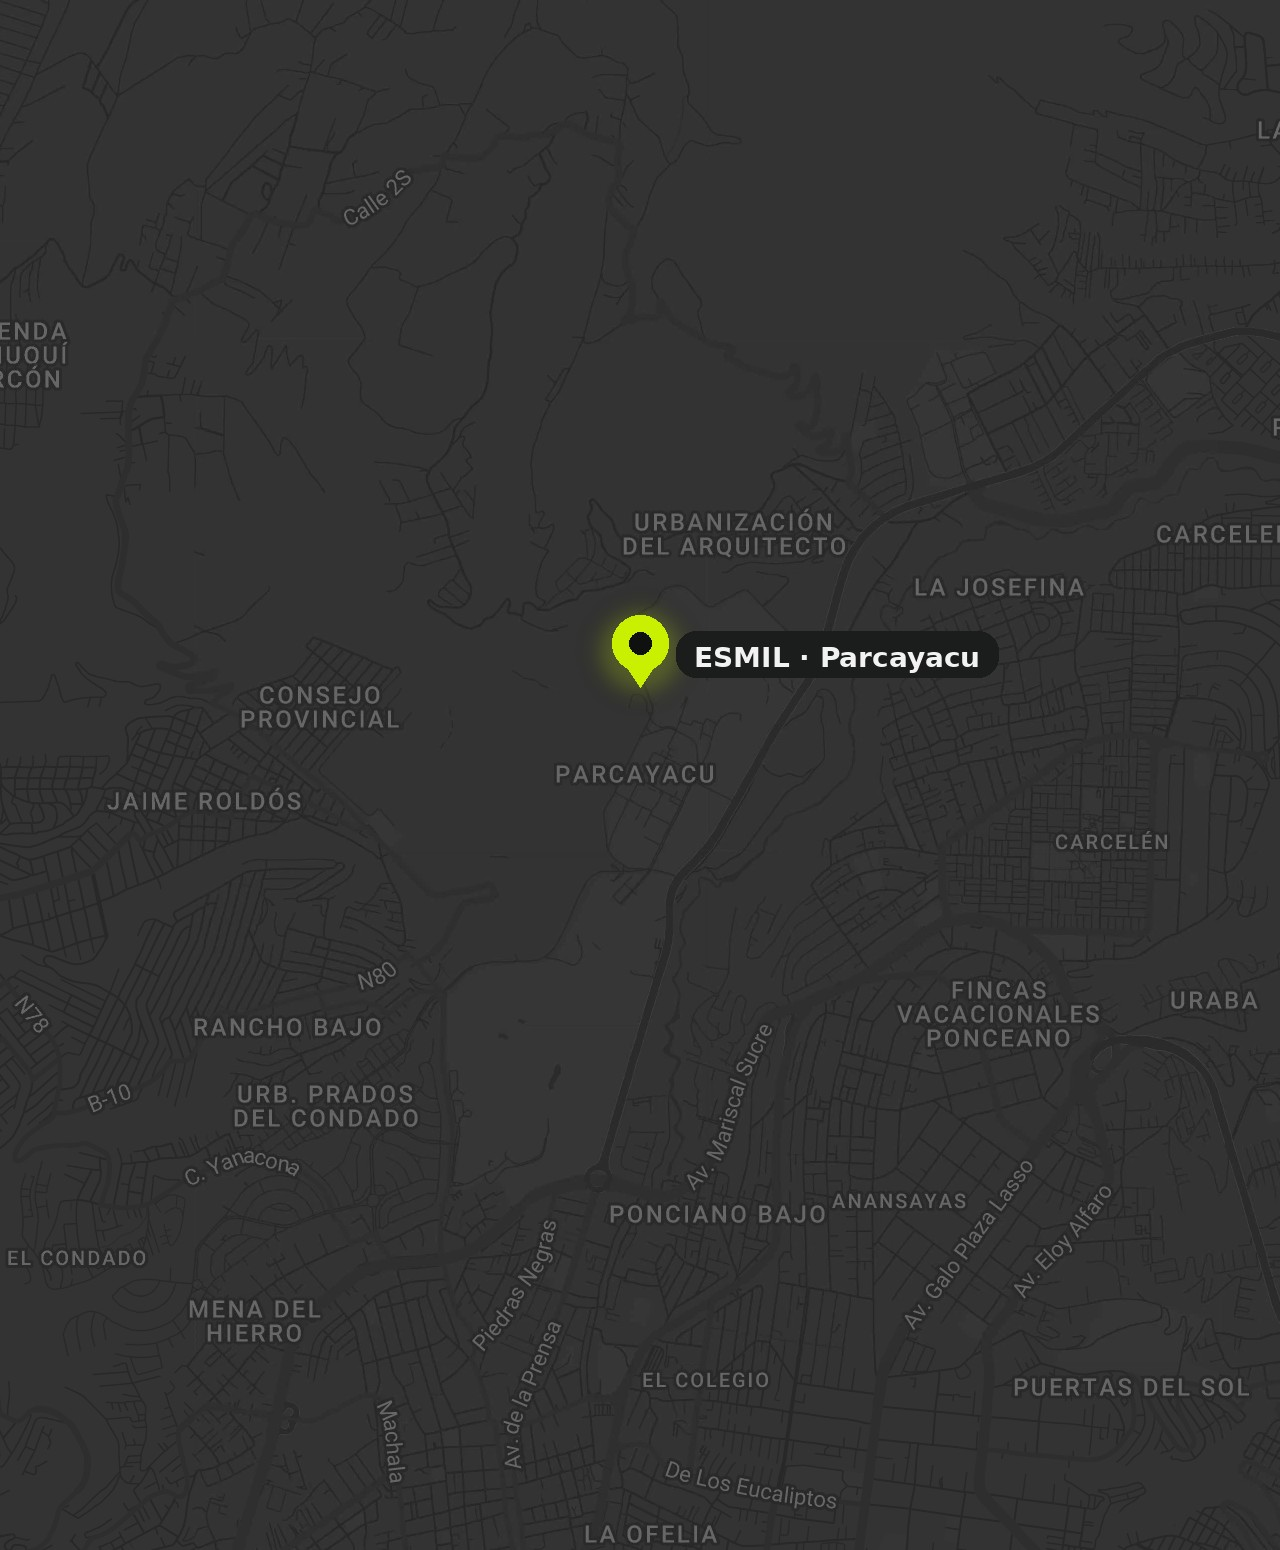
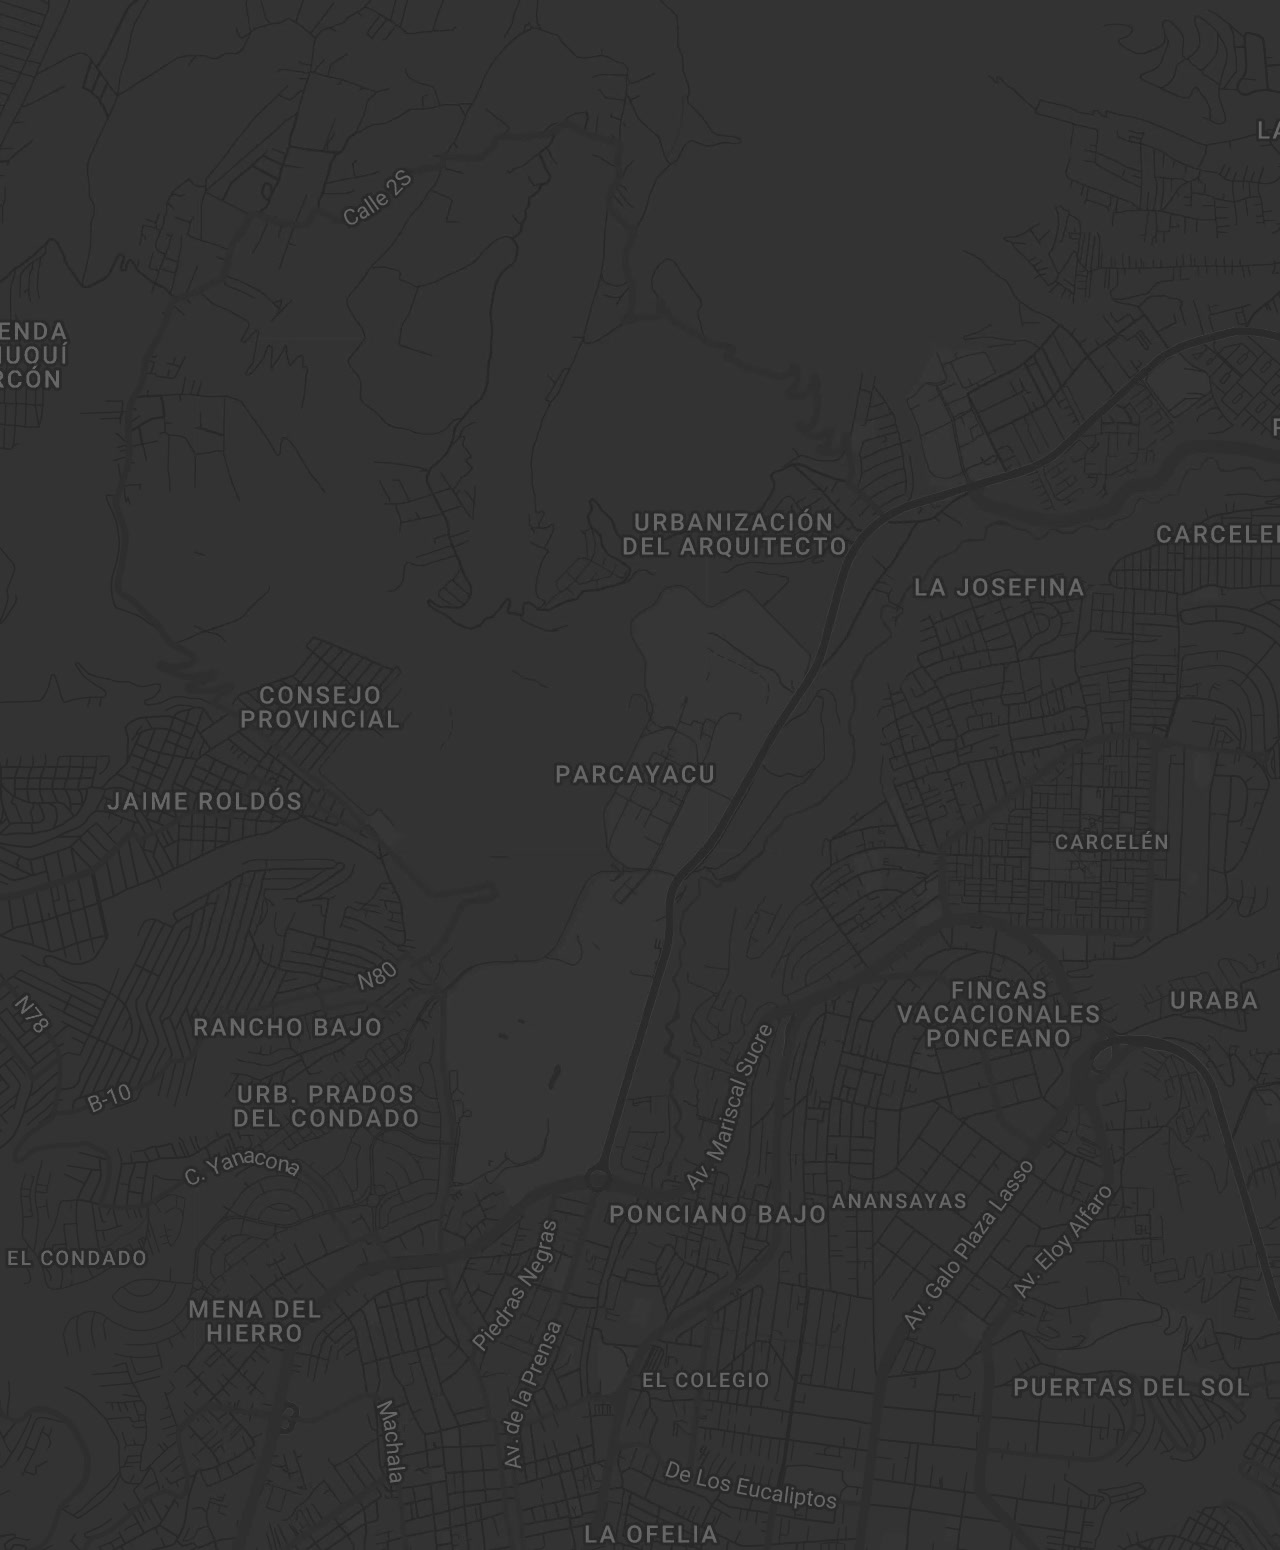
Replace Latidos map invite asset

Changed region(s): [[0.4688, 0.4026, 0.7812, 0.4645]]

diff --git a/index.html b/index.html
@@ -1186,7 +1186,7 @@
             <p class="addr-sub">Av. Manuel Córdova Galarza, vía Mitad del Mundo</p>
           </div>
           <div class="map-card">
-            <img class="map-static" src="assets/esmil-parcayacu-pin.jpg" alt="Mapa: ESMIL · Parcayacu, Quito" width="1200" height="900" decoding="async" />
+            <img class="map-static" src="assets/esmil-parcayacu-pin.jpg" alt="Mapa: ESMIL · Parcayacu, Quito" width="1280" height="1550" decoding="async" />
             <div class="pin-halo" aria-hidden="true"></div>
             <div class="pin-halo h2" aria-hidden="true"></div>
             <div class="map-pin" aria-hidden="true">
